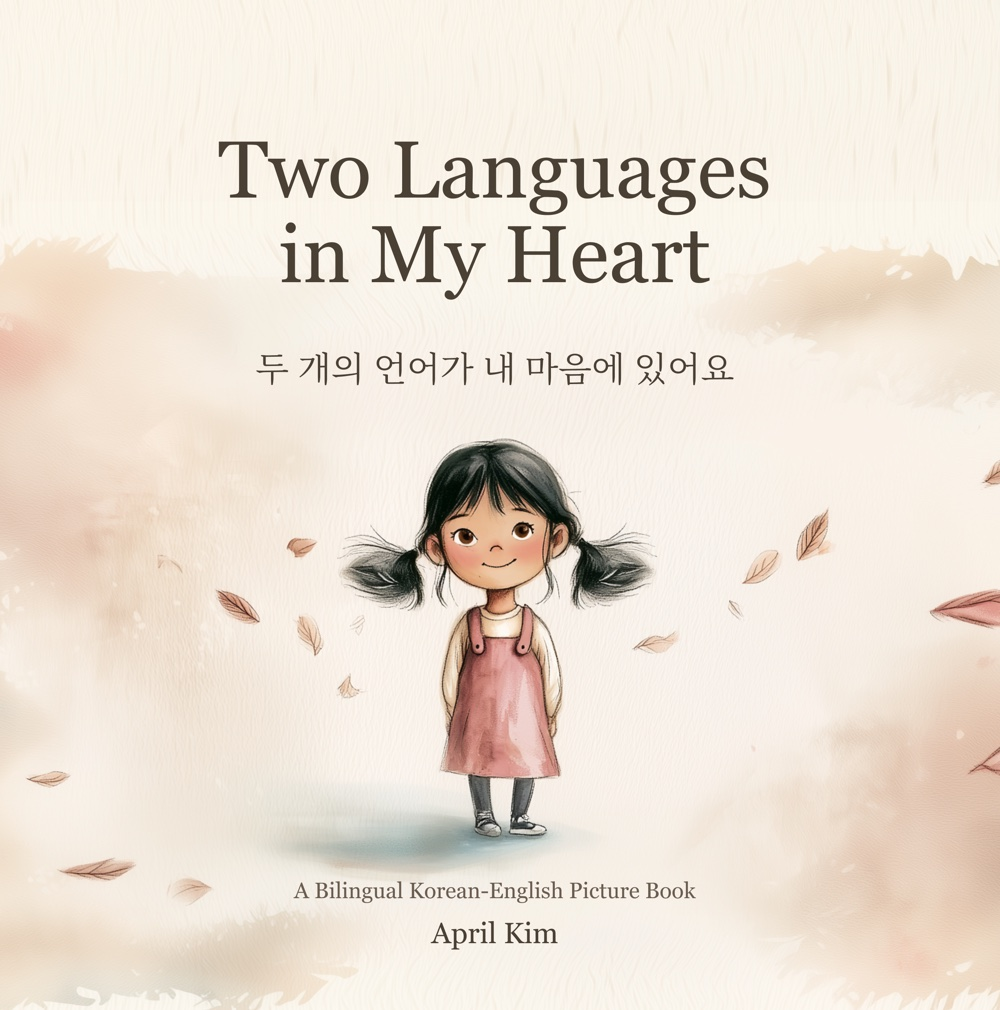
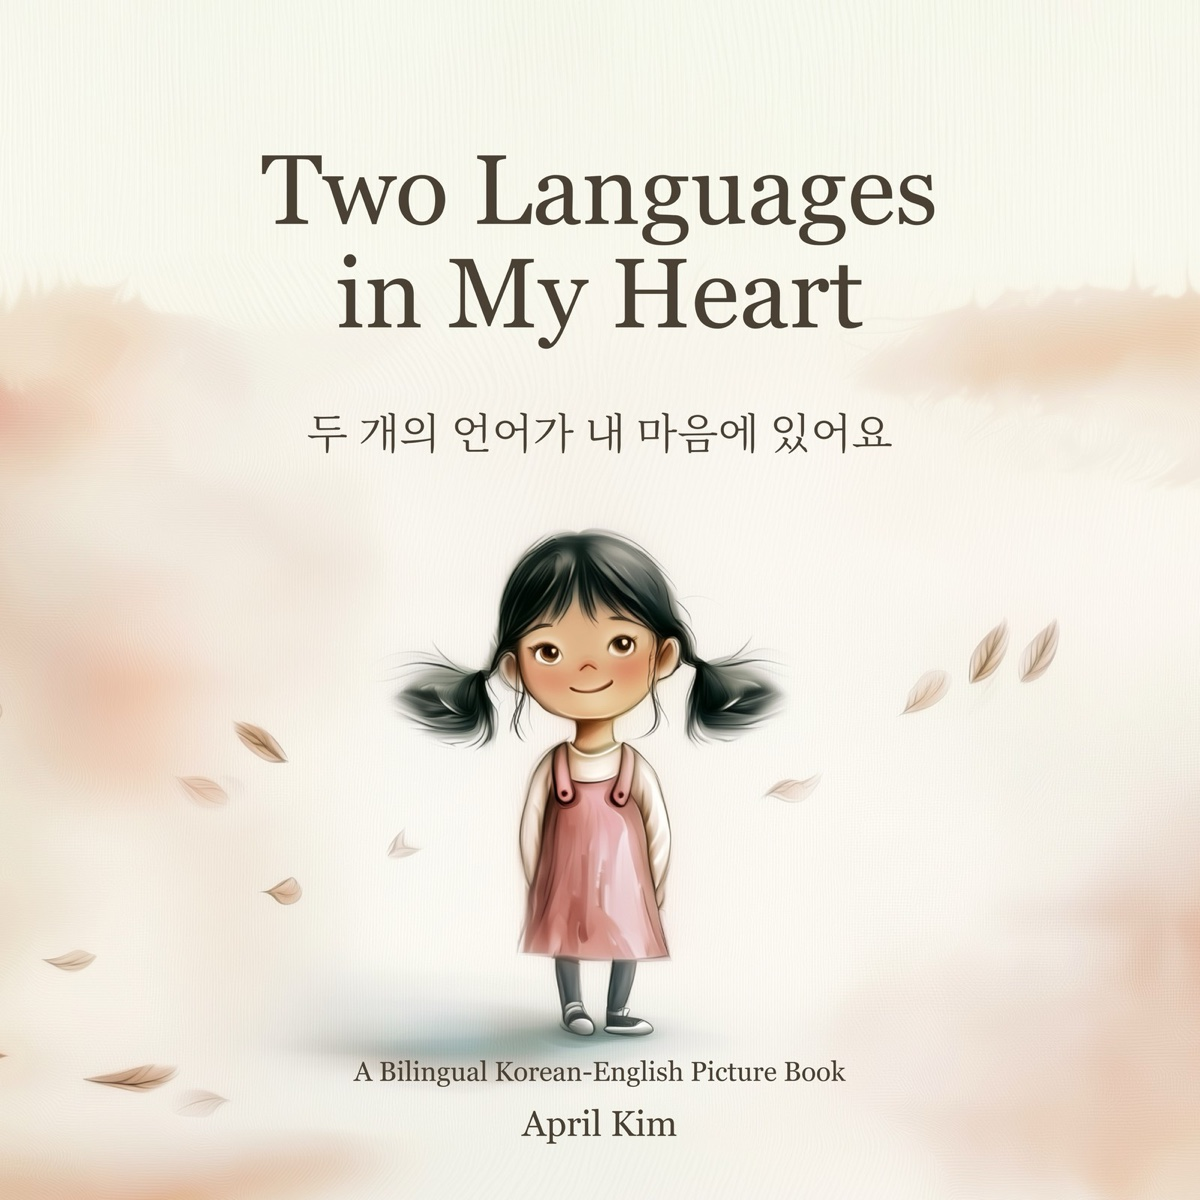
Update book cover art; regenerate share card to match

diff --git a/index.html b/index.html
@@ -210,7 +210,7 @@
     </span>
 
     <div class="cover-frame reveal">
-      <img src="cover.jpg" alt="Two Languages in My Heart — book cover" width="1000" height="1010">
+      <img src="cover.jpg" alt="Two Languages in My Heart — book cover" width="1200" height="1200">
     </div>
 
     <div class="hero-line braid center reveal">

diff --git a/index2.html b/index2.html
@@ -228,7 +228,7 @@
     </span>
 
     <div class="cover-frame reveal">
-      <img src="cover.jpg" alt="Two Languages in My Heart — book cover" width="1000" height="1010">
+      <img src="cover.jpg" alt="Two Languages in My Heart — book cover" width="1200" height="1200">
     </div>
 
     <div class="hero-line braid center reveal">
